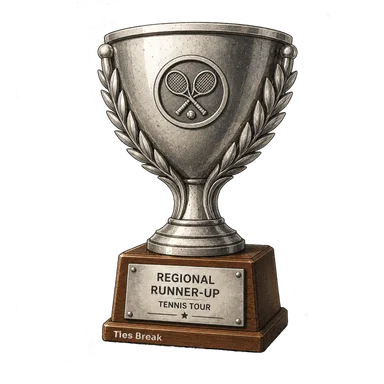
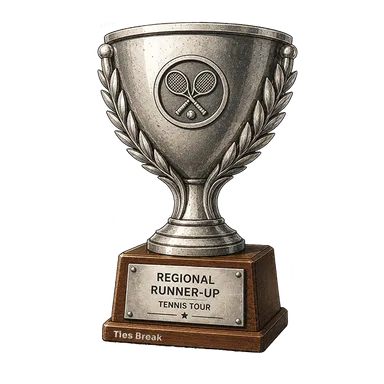
the sweep gets a second to breathe, and a family week keeps her homework
Two things the owner found while playing.

THE PACE. «настройка Pace в 2 секунды выглядит ну слишком быстро… а 5 оставим для тех,
кто любит по-медленнее.» The note defending 2s argued from arithmetic - fifty-two sweeps
a season - and that arithmetic is still right about the CEILING. What it got wrong is the
floor: it priced the animation's cost and never asked whether the animation had time to
be READ. Seven days share the window, so 2s gives a day under 300ms, which is a flicker
rather than a moment. 3s buys ~430ms a day for 52 seconds across a season. Gentle stays
at 5, which is his own framing.

HER HOMEWORK. «когда я беру отпуск… на учебных неделях, будет круто оставлять по паре
часов на уроки на буднях, она всё-таки учится, и мы так же делали сами, когда школу
пропускали.» A booked family week in term time is not a week off school - it is a week of
school missed, and the work comes with you. Two hours on a weekday morning, which costs
the day nothing since the family's own hours start at 10 or 11 in every arm of that arc.

⚠ ASSERTED IN THE TABLE, REMOVED IN THE COMPOSER, which is the direction this file has
kept since the school rule: the table decides a day's shape and the composer may only
take a block away. So Study sits in all five weekday arms and two rules strip it - the
weekend, and the off-season, where there is no term to miss. Adding it in the composer
would have been the shorter diff and the wrong one; it would make the composer able to
invent an hour.
[…]

Changed region(s): [[0.4375, 0.1875, 0.5625, 0.25], [0.4688, 0.75, 0.5, 0.7812], [0.4062, 0.7188, 0.4375, 0.75]]

diff --git a/src/composables/weekGrid.ts b/src/composables/weekGrid.ts
@@ -331,12 +331,27 @@ const TRIP_ARC: readonly (readonly DayBlock[])[] = [
  *
  *  ⚠ AND IT IS NOT AN EMPTY COLUMN, which is the whole reason the owner wanted the grid drawn here:
  *  "no tennis" is a fact about her week, not an absence of one. The hours are the family's. */
+// ⚠ AND SHE STILL HAS HOMEWORK ON A WEEKDAY (owner, 31.07): «когда я беру отпуск для восстановления
+// бусинки на учебных неделях, мне кажется будет круто оставлять по паре часов на уроки на буднях,
+// она всё-таки учится, и мы так же делали сами, когда школу пропускали».
+//
+// A booked family week in term time is not a week off school - it is a week of school missed, which
+// every parent who has done it knows means the work comes with you. Two hours on a weekday morning
+// is what that looks like, and it costs the day nothing: the family's own hours start at 10 or 11
+// in every arm of this arc.
+//
+// ⚠ IT IS ASSERTED HERE AND REMOVED IN THE COMPOSER, which is the direction this file has kept since
+// the school rule: the table decides a day's shape and the composer may only ever take a block away.
+// So `Study` sits in all five weekday arms, and two rules downstream strip it - the weekend, and the
+// OFF-SEASON, where there is no term to miss. Adding it in the composer would have been the shorter
+// diff and the wrong one: it would make the composer able to invent an hour, which is the property
+// that keeps this screen from drawing a day the engine never had.
 const FAMILY_ARC: readonly (readonly DayBlock[])[] = [
-  [{ start: 10, span: 3, kind: 'vacation', label: 'Family time' }],
-  [{ start: 10, span: 4, kind: 'vacation', label: 'Day out' }],
-  [{ start: 9, span: 3, kind: 'rest', label: 'Time off' }, { start: 14, span: 3, kind: 'vacation', label: 'Family time' }],
-  [{ start: 10, span: 4, kind: 'vacation', label: 'Day out' }],
-  [{ start: 11, span: 3, kind: 'vacation', label: 'Family time' }],
+  [{ start: 9, span: 2, kind: 'study', label: 'Study' }, { start: 11, span: 3, kind: 'vacation', label: 'Family time' }],
+  [{ start: 9, span: 2, kind: 'study', label: 'Study' }, { start: 11, span: 4, kind: 'vacation', label: 'Day out' }],
+  [{ start: 9, span: 2, kind: 'study', label: 'Study' }, { start: 14, span: 3, kind: 'vacation', label: 'Family time' }],
+  [{ start: 9, span: 2, kind: 'study', label: 'Study' }, { start: 11, span: 4, kind: 'vacation', label: 'Day out' }],
+  [{ start: 9, span: 2, kind: 'study', label: 'Study' }, { start: 11, span: 3, kind: 'vacation', label: 'Family time' }],
   [{ start: 10, span: 4, kind: 'vacation', label: 'Day out' }],
   [{ start: 11, span: 3, kind: 'rest', label: 'Home day' }],
 ]
@@ -470,6 +485,23 @@ function dropWeekendSchool(index: number, blocks: DayBlock[]): DayBlock[] {
   return blocks.filter((b) => b.kind !== 'school' && b.kind !== 'schoolLong')
 }
 
+/** ⚠ THERE IS NO TERM TO MISS IN THE OFF-SEASON, so the homework the family week carries (see
+ *  FAMILY_ARC) comes off there. The same shape serves a booked holiday and the off-season - the two
+ *  arrive as one `DayKind` and only the week's TITLE tells them apart, which is a display string - so
+ *  ⚠ AND THE FACT IS HANDED IN, NOT FETCHED - a guard caught the first attempt at exactly this. This
+ *  module may not import from `../engine/`: it is presentation and it is derived from what it is
+ *  given, which is the property `tests/calendar-grid.test.ts` calls "NOTHING NEW ON THE PAYLOAD".
+ *  Reaching for `isOffSeasonWeek` here would have been the short diff and a hole in that rule.
+ *  `weekDays.ts` already asks the calendar this question (it is the module that legitimately talks to
+ *  the engine), so the answer travels on `CalendarWeek` and arrives as data.
+ *
+ *  Removes only, like its neighbour above: the table asserts the study hour, and this declines to
+ *  draw it on a week where school is not running. */
+function dropOffSeasonStudy(offSeason: boolean, kind: DayKind, blocks: DayBlock[]): DayBlock[] {
+  if (kind !== 'off' || !offSeason) return blocks
+  return blocks.filter((b) => b.kind !== 'study')
+}
+
 // =================================================================================================
 // WHAT THE SESSION ACTUALLY WAS — variety without a second session
 // =================================================================================================
@@ -565,7 +597,11 @@ export function weekGridFor(
     kind: d.kind,
     beat: d.beat,
     blocks: namedSession(
-      dropWeekendSchool(d.index, dayBlocksFor(d.kind, band, { index: d.index, role: roles[i] })),
+      dropOffSeasonStudy(
+        week.offSeason,
+        d.kind,
+        dropWeekendSchool(d.index, dayBlocksFor(d.kind, band, { index: d.index, role: roles[i] })),
+      ),
       seed,
       week.week,
       d.index,

diff --git a/src/composables/weekDays.ts b/src/composables/weekDays.ts
@@ -144,6 +144,13 @@ export interface CalendarWeek {
   title: string
   /** the sentence under the grid – the plan, read back as days */
   readout: string
+  /** ⚠ IS THIS WEEK THE OFF-SEASON? `off` serves two different weeks - a booked family package and
+   *  the off-season - and `days` alone cannot tell them apart, only the display `title` could. The
+   *  grid needs the distinction to decide whether a family week carries homework (there is no term
+   *  to miss in the off-season), and it may not ask the engine itself: it is presentation, derived
+   *  from what it is handed. This file is the one that legitimately talks to the calendar, so the
+   *  answer travels as data. */
+  offSeason: boolean
   /** Should the days cross themselves out when the week is played? False when another surface owns
    *  the week: a tournament trip has its own flow and its own screens, and a week whose reveal is
    *  already paused is not a week anybody is about to watch pass. */
@@ -211,7 +218,18 @@ export function calendarWeekFor(snap: CalendarWeekFacts, week: number): Calendar
   const gymIndex = gymDayIndex(sessions)
   const session = sessionDays(sessions)
   const courtDays = session.filter((d) => d !== gymIndex).length
-  const base = { week, sessions, courtDays, gymIndex, surface, surfaceNote, animates: !snap.pending }
+  const base = {
+    week,
+    sessions,
+    courtDays,
+    gymIndex,
+    surface,
+    surfaceNote,
+    // Asked once, here, and carried on the week - see the field's note on CalendarWeek for why the
+    // grid may not ask it itself.
+    offSeason: isOffSeasonWeek(week),
+    animates: !snap.pending,
+  }
 
   // 1. HER BODY. `layoffCoversWeek` is the engine's own arithmetic, not a third spelling of it.
   if (layoffCoversWeek(snap.week, snap.injury?.weeksRemaining, week)) {

diff --git a/tests/calendar-screen.test.ts b/tests/calendar-screen.test.ts
@@ -710,7 +710,12 @@ describe('the days cross themselves out', () => {
   const beatFree = new Array(7).fill(false)
 
   it('the duration is ONE named constant with the owner\'s two settings behind it', () => {
-    expect(DAY_CROSS_PACE.brisk.sweepMs).toBe(2000) // "~2s"
+    // ⚠ RE-PINNED 2000 -> 3000 (owner, 31.07, after playing): «настройка Pace в 2 секунды выглядит
+    // ну слишком быстро… а 5 оставим для тех, кто любит по-медленнее». The RULE is unchanged and is
+    // the one this test is named for - one named constant with two settings behind it - so only the
+    // brisk number moved. Seven days share the sweep, so 2s gave a day under 300ms: a flicker rather
+    // than a moment. 3s buys ~430ms a day and costs 52 seconds across a season.
+    expect(DAY_CROSS_PACE.brisk.sweepMs).toBe(3000)
     expect(DAY_CROSS_PACE.gentle.sweepMs).toBe(5000) // "~5s"
     expect(DAY_CROSS_PACES).toEqual(['brisk', 'gentle'])
     // both are labelled for a picker, and the labels say the number so "by eye" needs no legend
@@ -759,7 +764,9 @@ describe('the days cross themselves out', () => {
 
   it('it is total: a beat on every day, and an empty week, both schedule cleanly', () => {
     const all = dayCrossSchedule(new Array(7).fill(true), DAY_CROSS_PACE.brisk)
-    expect(all.total).toBe(2000 + 7 * DAY_CROSS_PACE.brisk.holdMs)
+    // Reads the constant rather than repeating it, so a future pace change cannot make this
+    // assertion quietly describe a pace the app no longer has.
+    expect(all.total).toBe(DAY_CROSS_PACE.brisk.sweepMs + 7 * DAY_CROSS_PACE.brisk.holdMs)
     const none = dayCrossSchedule([], DAY_CROSS_PACE.brisk)
     expect(none).toEqual({ at: [], total: 0, strokeMs: 0 })
   })

diff --git a/src/composables/dayCross.ts b/src/composables/dayCross.ts
@@ -60,12 +60,22 @@ export interface DayCrossPace {
  *  The holds are ~1/5 of the sweep in both, so a pause is legible at either pace without either
  *  turning into a stop. */
 export const DAY_CROSS_PACE: Record<DayCrossPaceId, DayCrossPace> = {
-  brisk: { sweepMs: 2000, holdMs: 420 },
+  // ⚠ 2000 -> 3000 (owner, 31.07, after playing): «настройка Pace в 2 секунды выглядит ну слишком
+  // быстро, давай сделаем хотя бы 3 так будет оптимально и прочитать и прочувствовать».
+  //
+  // The note above argued 2s from arithmetic - fifty-two sweeps a season, so the gentle pace spends
+  // about four minutes a season on it - and that arithmetic is still right about the CEILING. What
+  // it got wrong is the floor: it optimised for the cost of the animation and never asked whether
+  // the animation had time to be READ. Seven days are struck out in that window, one of which may
+  // hold a beat; at 2s a day gets under 300ms, which is a flicker rather than a moment. 3s buys
+  // ~430ms a day and costs 52 seconds a season. `gentle` stays at 5 for whoever wants it slower,
+  // which is the owner's own framing: «5 оставим для тех, кто любит по-медленнее».
+  brisk: { sweepMs: 3000, holdMs: 620 },
   gentle: { sweepMs: 5000, holdMs: 900 },
 }
 
 export const DAY_CROSS_PACE_LABEL: Record<DayCrossPaceId, string> = {
-  brisk: 'Brisk 2s',
+  brisk: 'Brisk 3s',
   gentle: 'Gentle 5s',
 }
 
